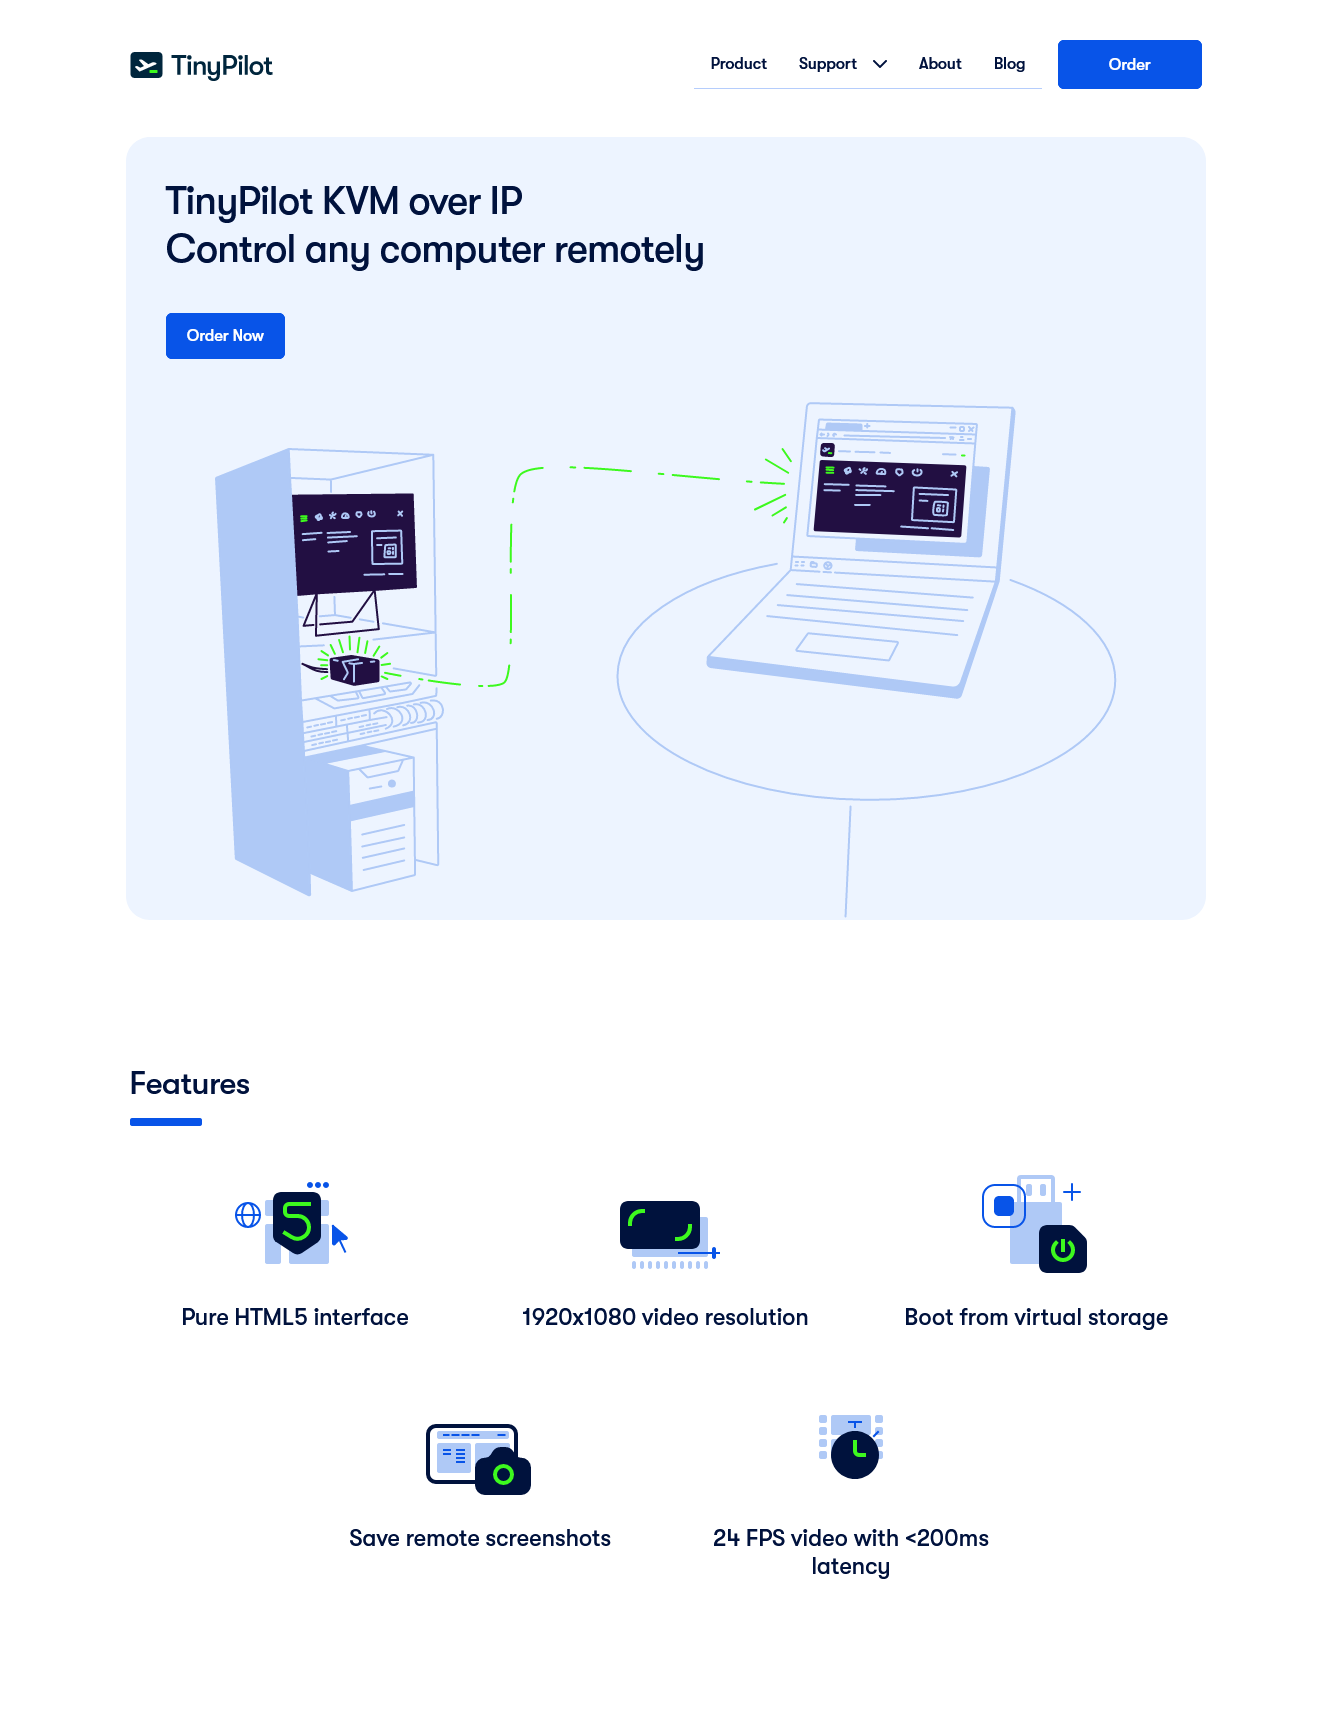
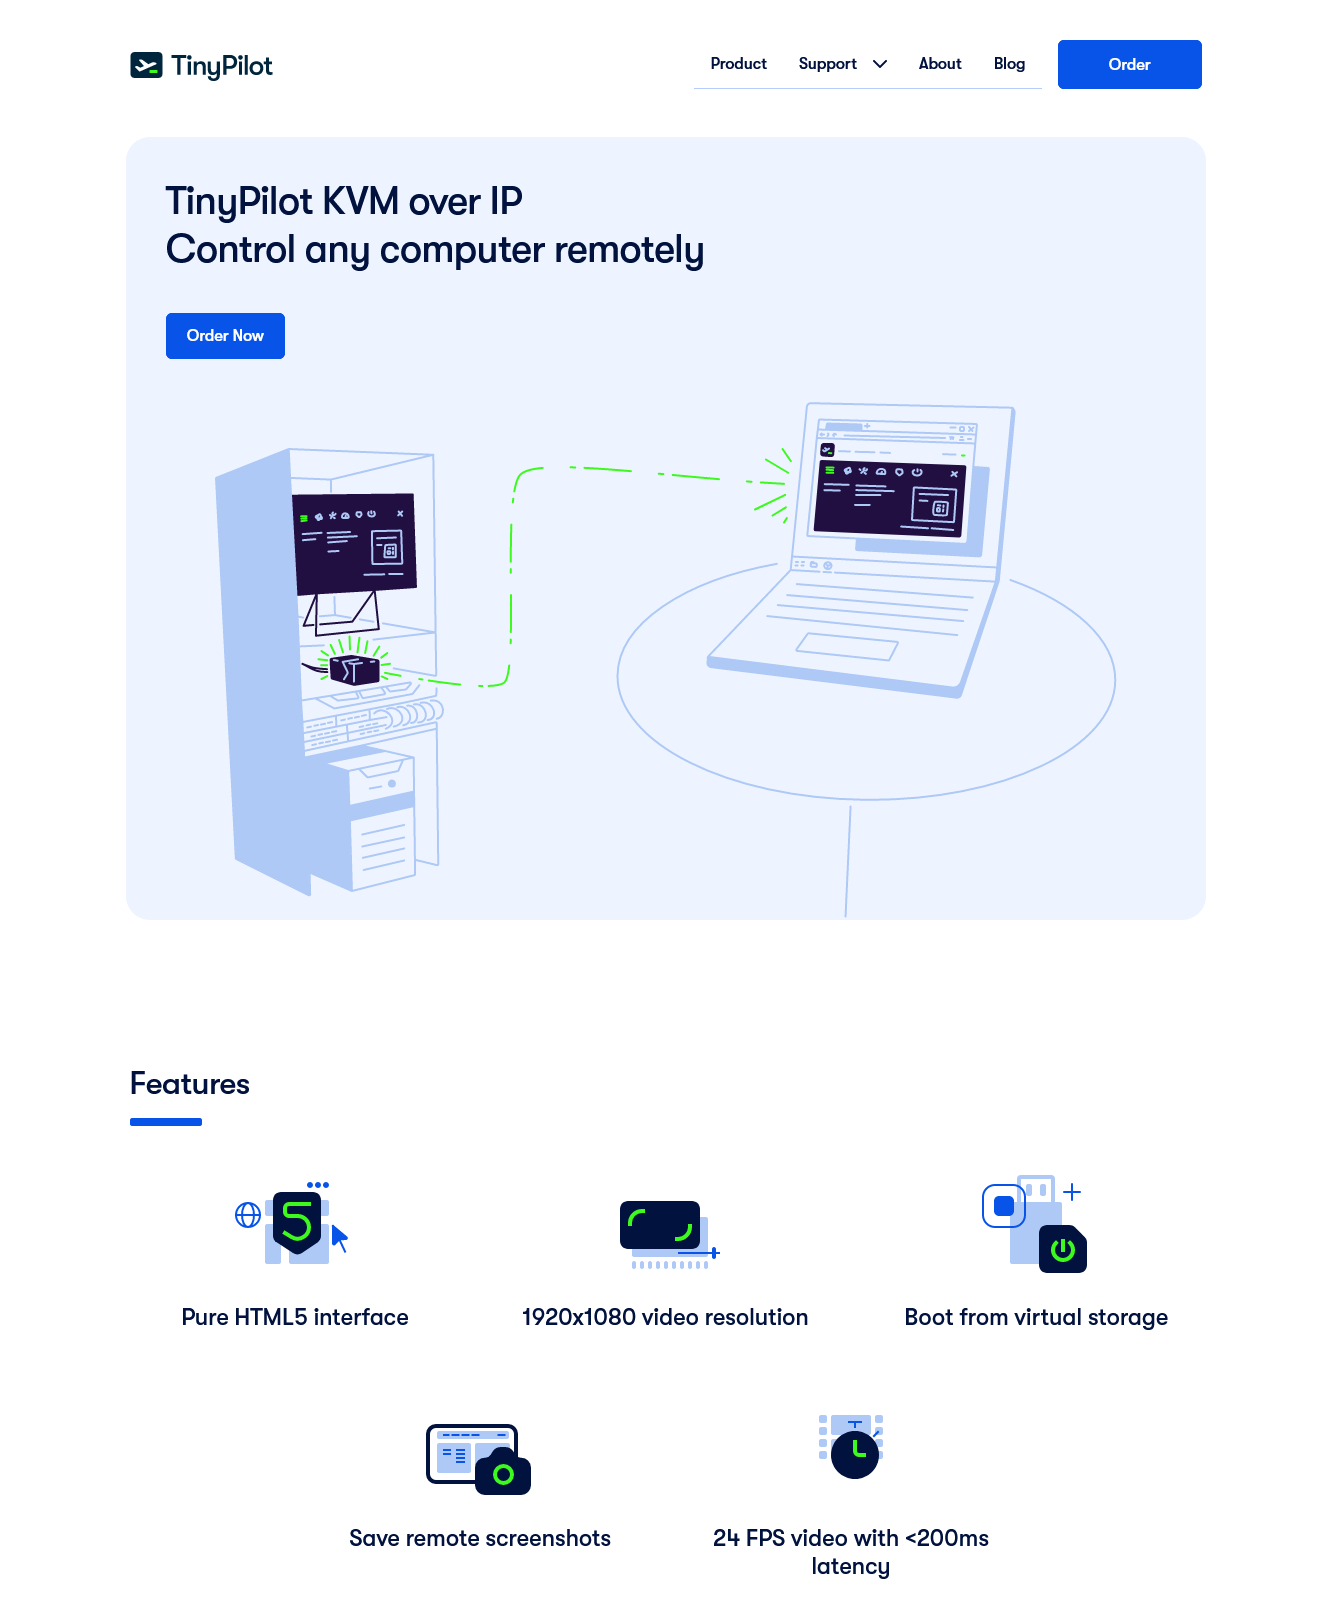
Update images

diff --git a/content/posts/solo-developer-year-5/index.md b/content/posts/solo-developer-year-5/index.md
@@ -63,8 +63,8 @@ When I launched TinyPilot in 2020, I told myself the website and logo were just 
 In 2022, I finally hired a design agency to develop a new logo and redesign the website.
 
 {{<gallery caption="Before and after the [TinyPilot website redesign](/tinypilot-redesign)">}}
-{{<img src="landing-before-cropped.png" alt="Screenshot of old landing page" max-width="450px" has-border="true">}}
-{{<img src="landing-after-cropped.png" alt="Screenshot of new landing page" max-width="393px" has-border="true">}}
+{{<img src="landing-before-cropped.png" alt="Screenshot of old landing page" max-width="400px" has-border="true">}}
+{{<img src="landing-after-cropped.png" alt="Screenshot of new landing page" max-width="400px" has-border="true">}}
 {{</gallery>}}
 
 The process of working with the agency was an extremely frustrating and expensive process that I [wrote about previously](/tinypilot-redesign), but the results have been great. I never tested it rigorously, but my gut feeling is that the website is responsible for the steady increase in sales we saw in 2022.
